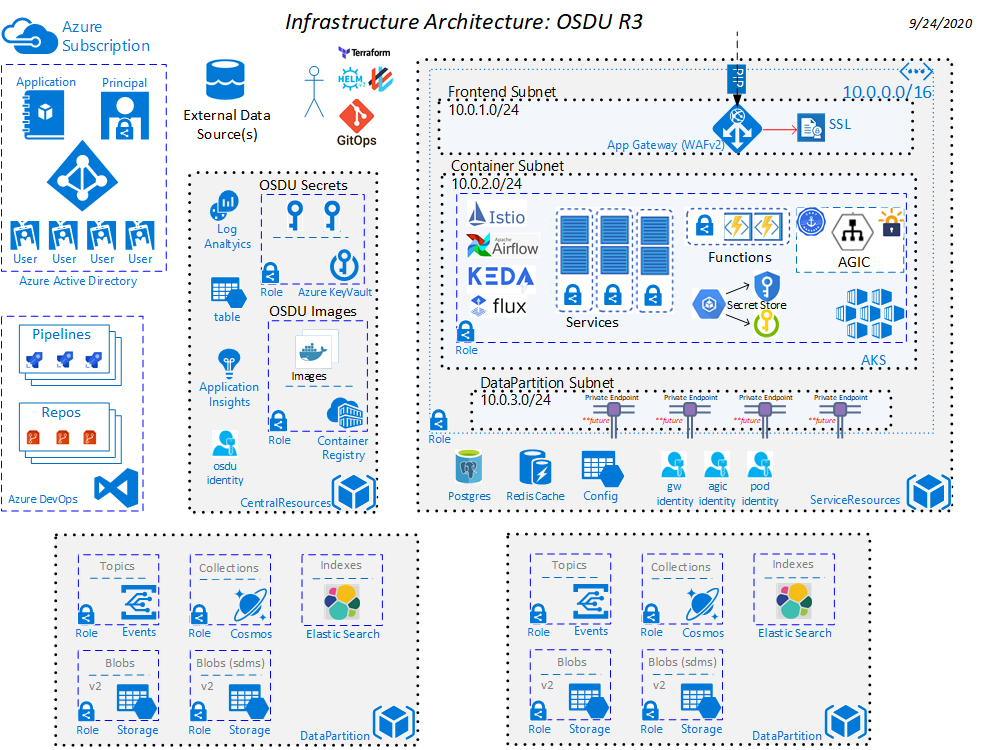
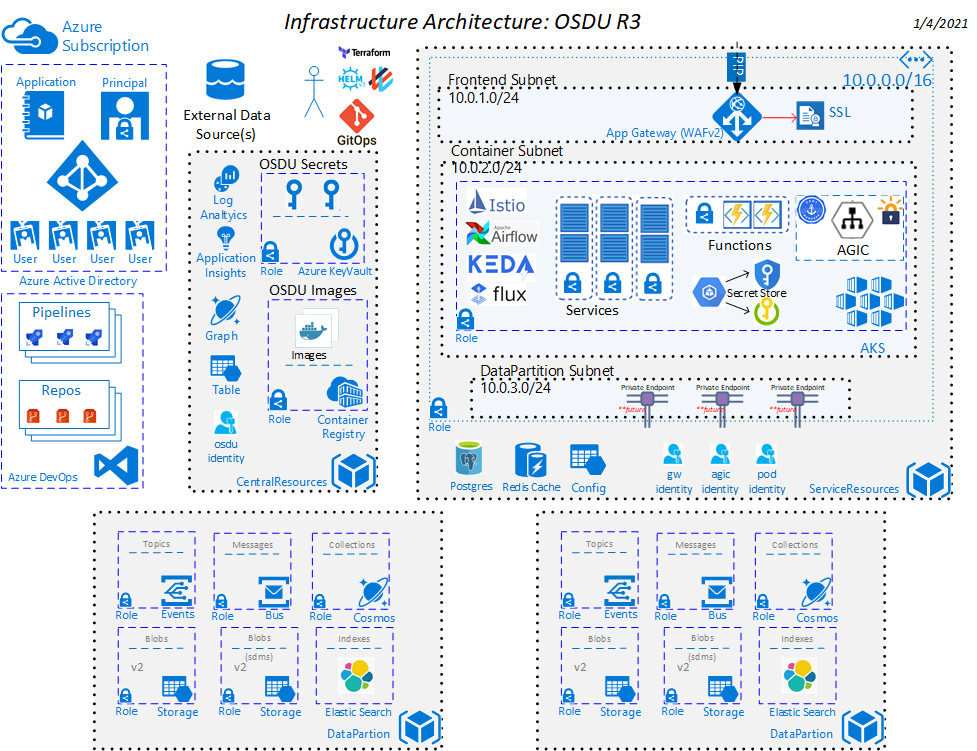
Add Cosmos Graph Database to Central Resources

diff --git a/infra/modules/providers/azure/cosmosdb/testing/unit_test.go b/infra/modules/providers/azure/cosmosdb/testing/unit_test.go
@@ -11,7 +11,7 @@ import (
 
 var name = "cosmosdb-"
 var location = "eastus"
-var count = 7
+var count = 12
 
 var tfOptions = &terraform.Options{
 	TerraformDir: "./",
@@ -28,7 +28,7 @@ func asMap(t *testing.T, jsonString string) map[string]interface{} {
 
 func TestTemplate(t *testing.T) {
 
-	expectedAccountResult := asMap(t, `{
+	expectedSqlAccountResult := asMap(t, `{
     "kind": "GlobalDocumentDB",
     "enable_automatic_failover": true,
     "enable_multiple_write_locations": false,
@@ -36,6 +36,20 @@ func TestTemplate(t *testing.T) {
 		"offer_type": "Standard",
     "consistency_policy": [{
       "consistency_level": "Session"
+    }]
+  }`)
+
+	expectedGraphAccountResult := asMap(t, `{
+    "kind": "GlobalDocumentDB",
+    "enable_automatic_failover": true,
+    "enable_multiple_write_locations": false,
+    "is_virtual_network_filter_enabled": false,
+		"offer_type": "Standard",
+    "consistency_policy": [{
+      "consistency_level": "Session"
+    }],
+    "capabilities": [{
+      "name": "EnableGremlin"
     }]
 	}`)
 
@@ -50,6 +64,12 @@ func TestTemplate(t *testing.T) {
     "database_name": "osdu-module-database",
     "name": "osdu-module-container1",
     "partition_key_path": "/id"
+  }`)
+
+	expectedGraphResult := asMap(t, `{
+    "database_name": "osdu-module-database",
+    "name": "osdu-module-graph1",
+    "partition_key_path": "/mypartition"
 	}`)
 
 	testFixture := infratests.UnitTestFixture{
@@ -59,9 +79,12 @@ func TestTemplate(t *testing.T) {
 		PlanAssertions:        nil,
 		ExpectedResourceCount: count,
 		ExpectedResourceAttributeValues: infratests.ResourceDescription{
-			"module.cosmosdb_autoscale.azurerm_cosmosdb_account.cosmosdb":                    expectedAccountResult,
-			"module.cosmosdb_autoscale.azurerm_cosmosdb_sql_database.cosmos_dbs[0]":          expectedDatabaseResult,
-			"module.cosmosdb_autoscale.azurerm_cosmosdb_sql_container.cosmos_collections[0]": expectedContainerResult,
+			"module.cosmosdb_sql.azurerm_cosmosdb_account.cosmosdb":                    expectedSqlAccountResult,
+			"module.cosmosdb_graph.azurerm_cosmosdb_account.cosmosdb":                  expectedGraphAccountResult,
+			"module.cosmosdb_sql.azurerm_cosmosdb_sql_database.cosmos_dbs[0]":          expectedDatabaseResult,
+			"module.cosmosdb_graph.azurerm_cosmosdb_gremlin_database.cosmos_dbs[0]":    expectedDatabaseResult,
+			"module.cosmosdb_graph.azurerm_cosmosdb_gremlin_graph.cosmos_graphs[0]":    expectedGraphResult,
+			"module.cosmosdb_sql.azurerm_cosmosdb_sql_container.cosmos_collections[0]": expectedContainerResult,
 		},
 	}
 

diff --git a/infra/templates/osdu-r3-mvp/central_resources/tests/unit/unit_test.go b/infra/templates/osdu-r3-mvp/central_resources/tests/unit/unit_test.go
@@ -49,7 +49,7 @@ func TestTemplate(t *testing.T) {
 		TfOptions:                       tfOptions,
 		Workspace:                       workspace,
 		PlanAssertions:                  nil,
-		ExpectedResourceCount:           48,
+		ExpectedResourceCount:           59,
 		ExpectedResourceAttributeValues: resourceDescription,
 	}
 

diff --git a/CHANGELOG.md b/CHANGELOG.md
@@ -6,6 +6,7 @@ __Infra Changes__
 - [Issue 75 - Upgrade Infrastructure tools and software dependencies](https://community.opengroup.org/osdu/platform/deployment-and-operations/infra-azure-provisioning/-/issues/75)  - _* Manual Intervention Required_
 - [Issue 76 - Add Terraform Service Resource Template Feature Flags](https://community.opengroup.org/osdu/platform/deployment-and-operations/infra-azure-provisioning/-/issues/76)
 - [Issue 80 - Feature Change - Data Partition - Enable CORS configuration for Blob Containers on Storage Accounts](https://community.opengroup.org/osdu/platform/deployment-and-operations/infra-azure-provisioning/-/issues/80)
+- [Issue 77 - Architecture Change - Central Resources - Add Graph Database](https://community.opengroup.org/osdu/platform/deployment-and-operations/infra-azure-provisioning/-/issues/77)
 
 
 
